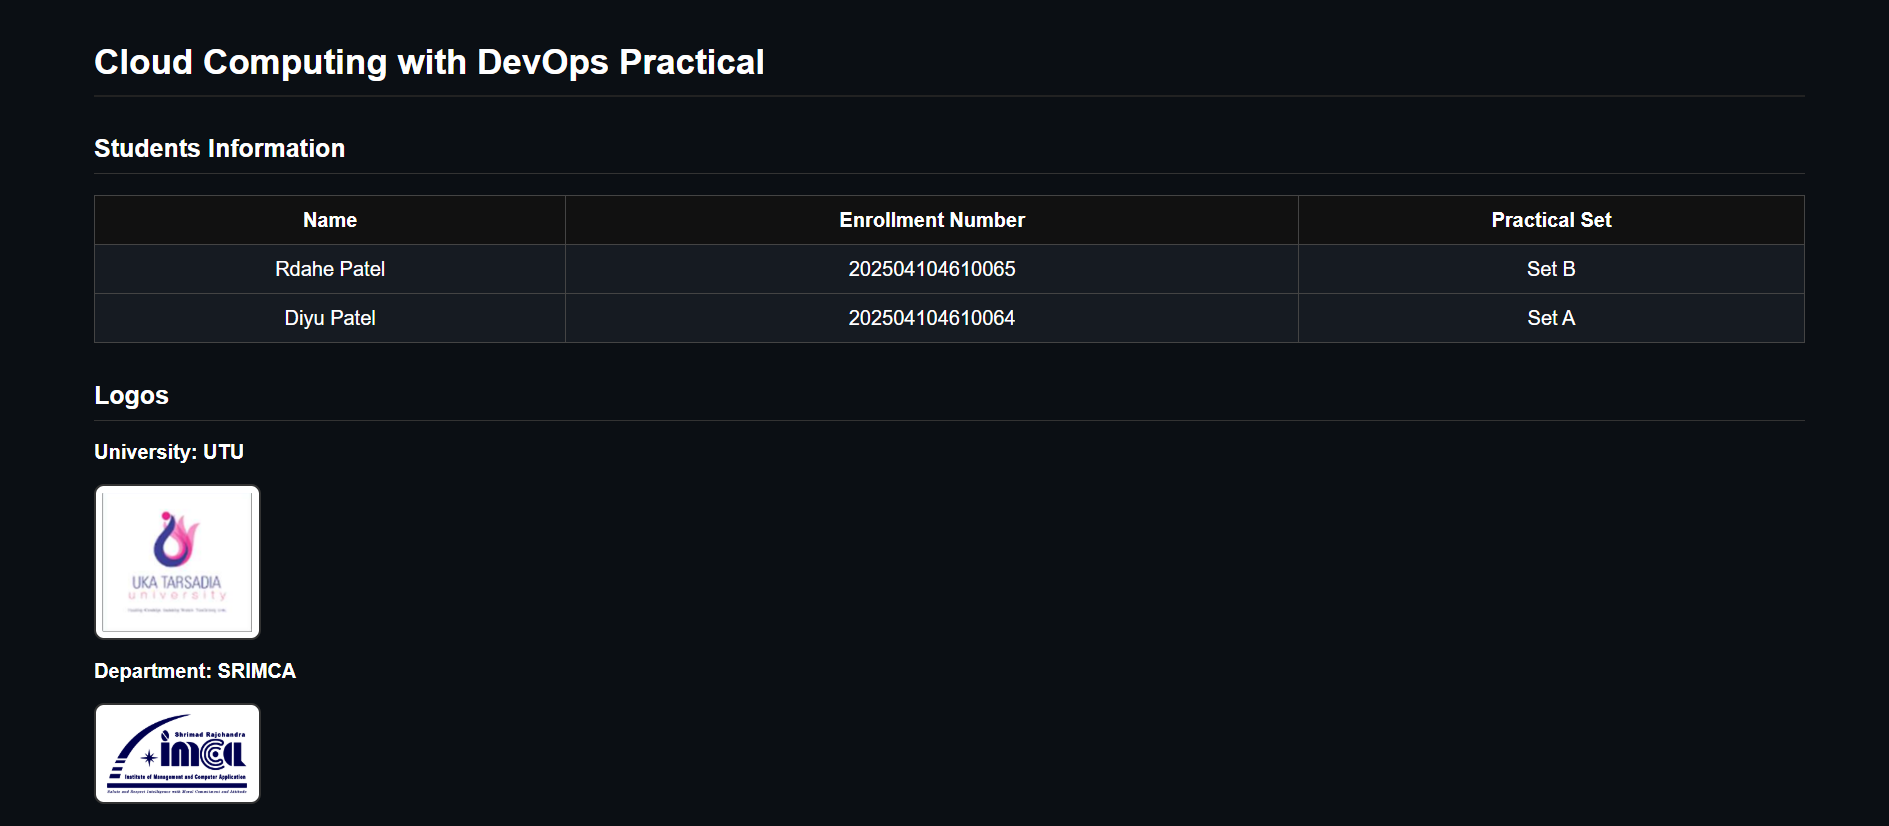
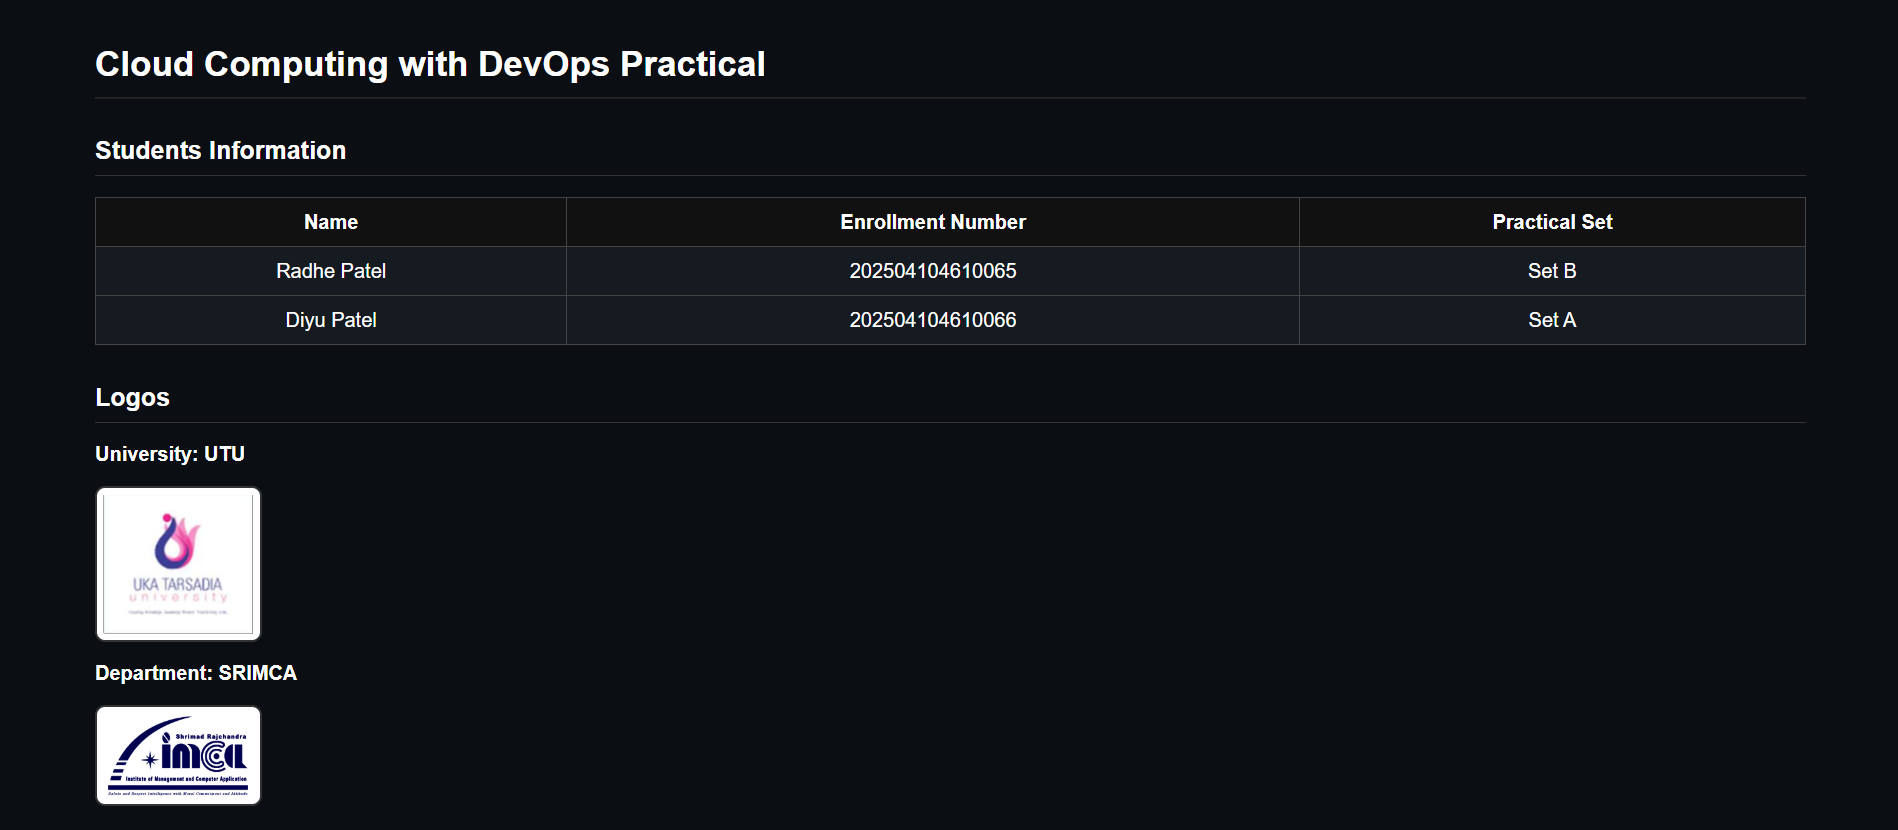
Update screenshotimage

diff --git a/Practical_5/index.html b/Practical_5/index.html
@@ -95,7 +95,7 @@
         <th>Practical Set</th>
       </tr>
       <tr>
-        <td>Rdahe Patel</td>
+        <td>Radhe Patel</td>
         <td>202504104610065</td>
         <td>Set B</td>
       </tr>
